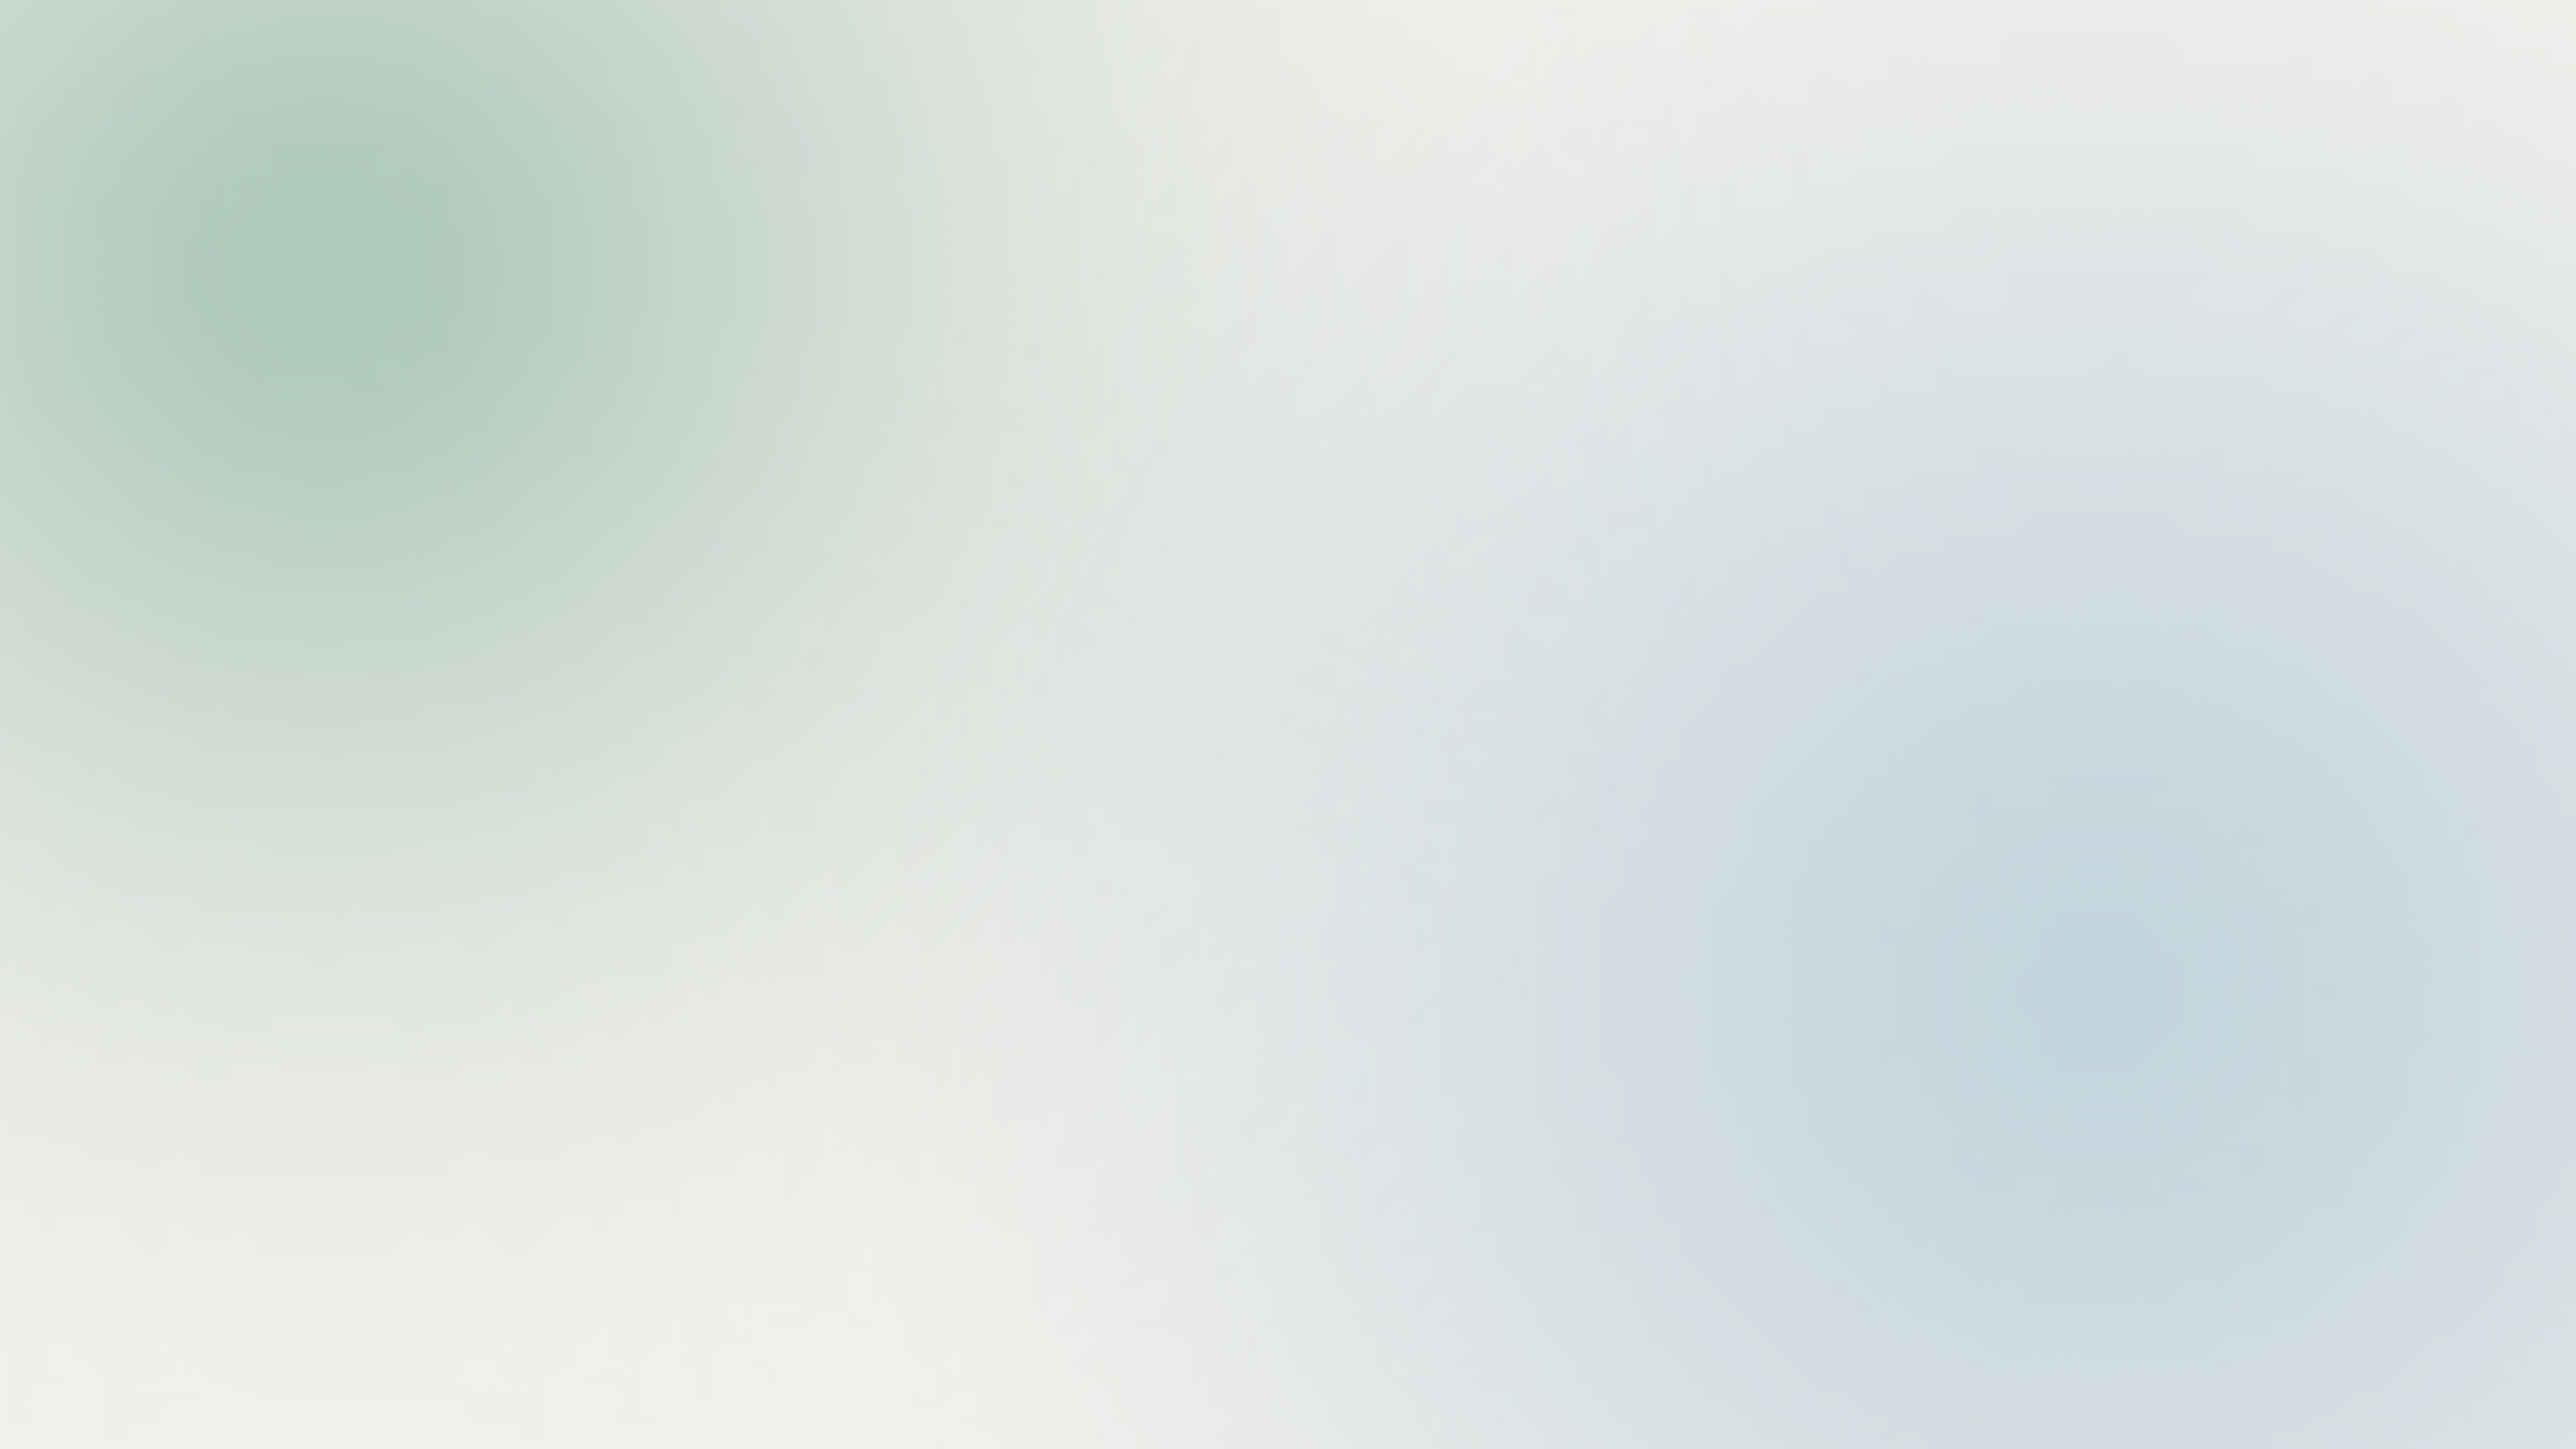
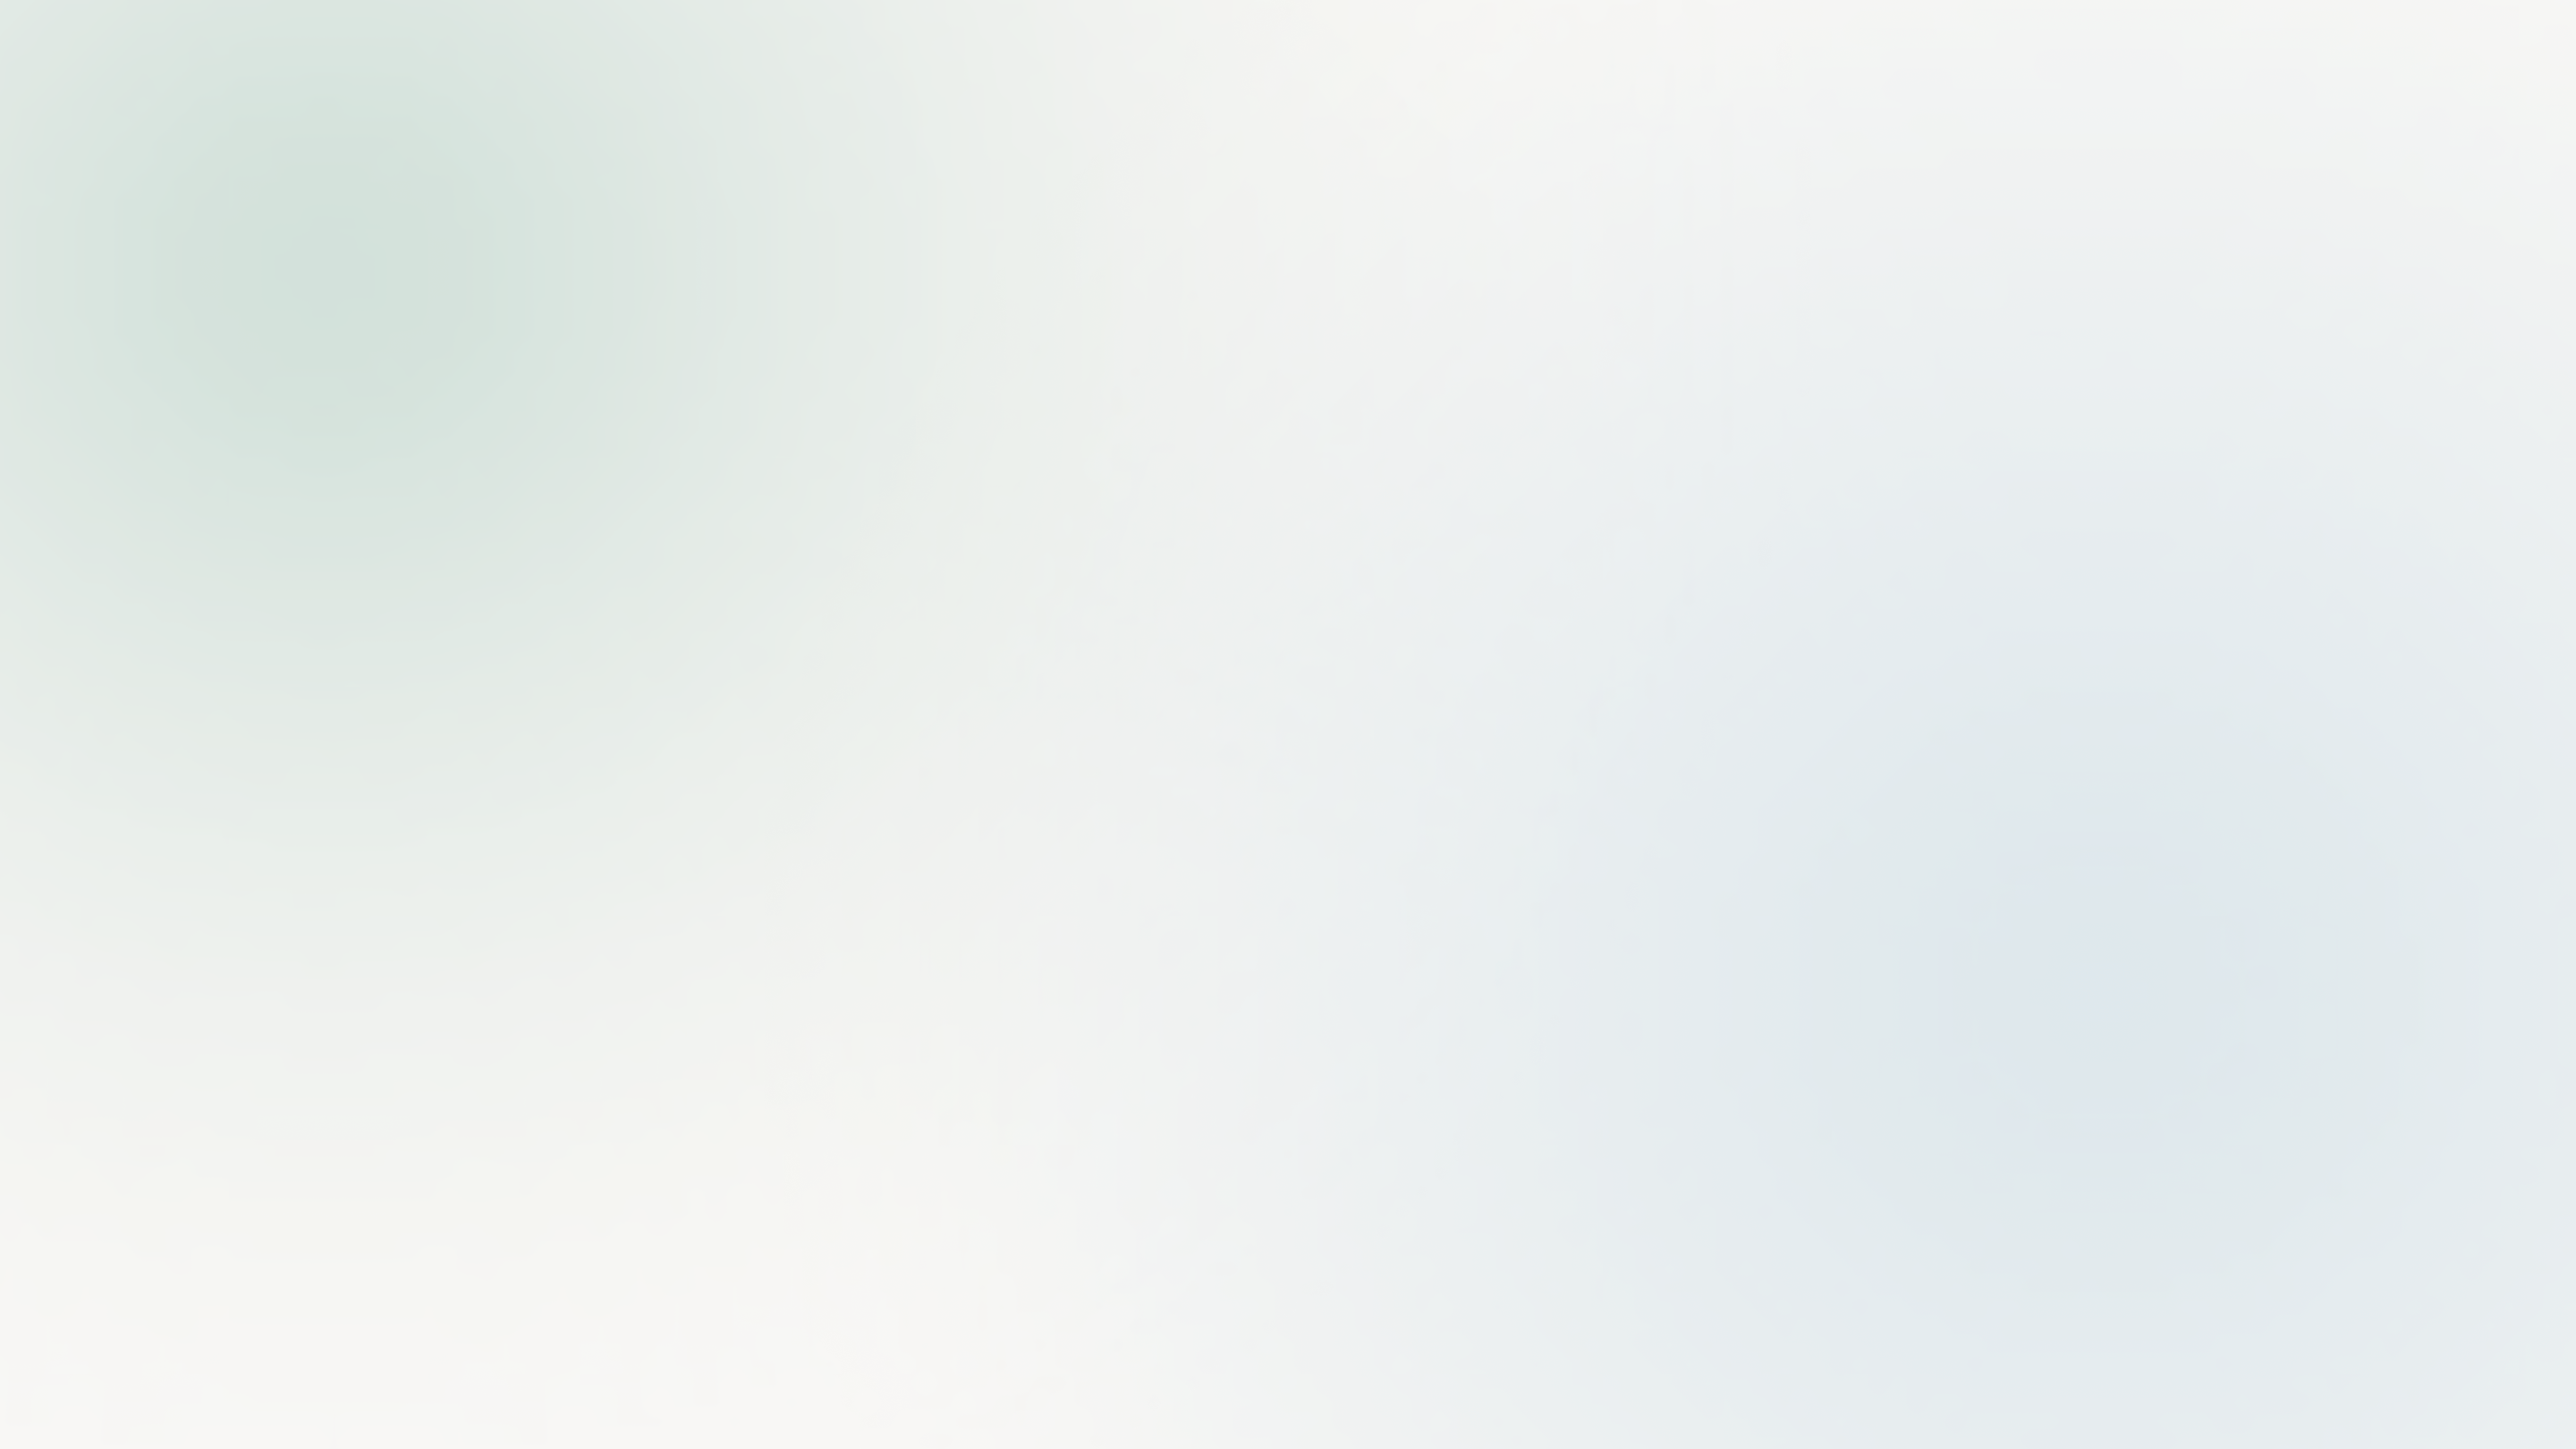
top bg updated

Changed region(s): [[0.0, 0.0, 0.3125, 0.463], [0.7188, 0.5247, 0.9062, 0.8642]]

diff --git a/index.html b/index.html
@@ -249,7 +249,7 @@
                 </div>
             </section>
 
-            <section id="section-about" data-bgimage="url(images-event/bg/wide1.jpg) top left no-repeat">
+            <section id="section-about" data-bgimage="url(images-event/bg/wide1.png) top left no-repeat">
                 <div class="wm wm-border light wow fadeInDown">welcome</div>
                 <div class="container">
                     <div class="row align-items-center">
